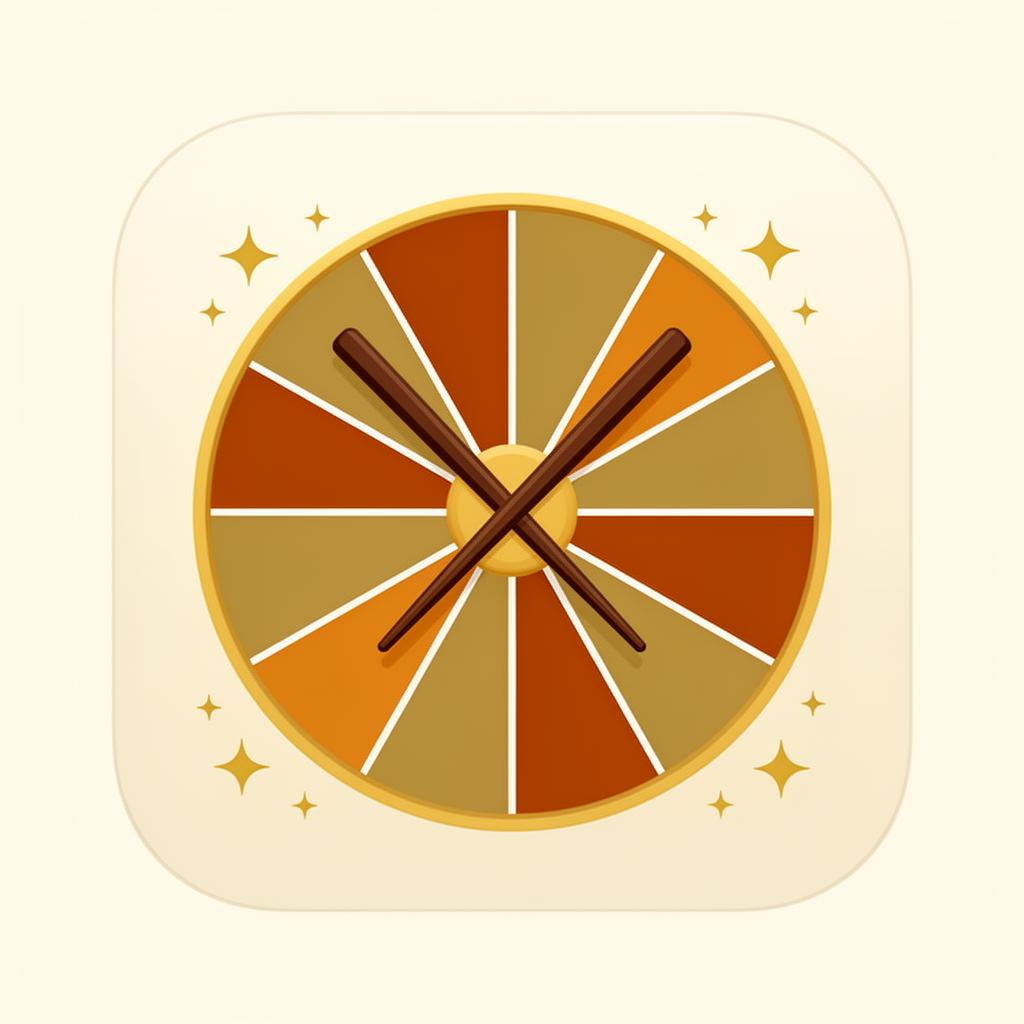
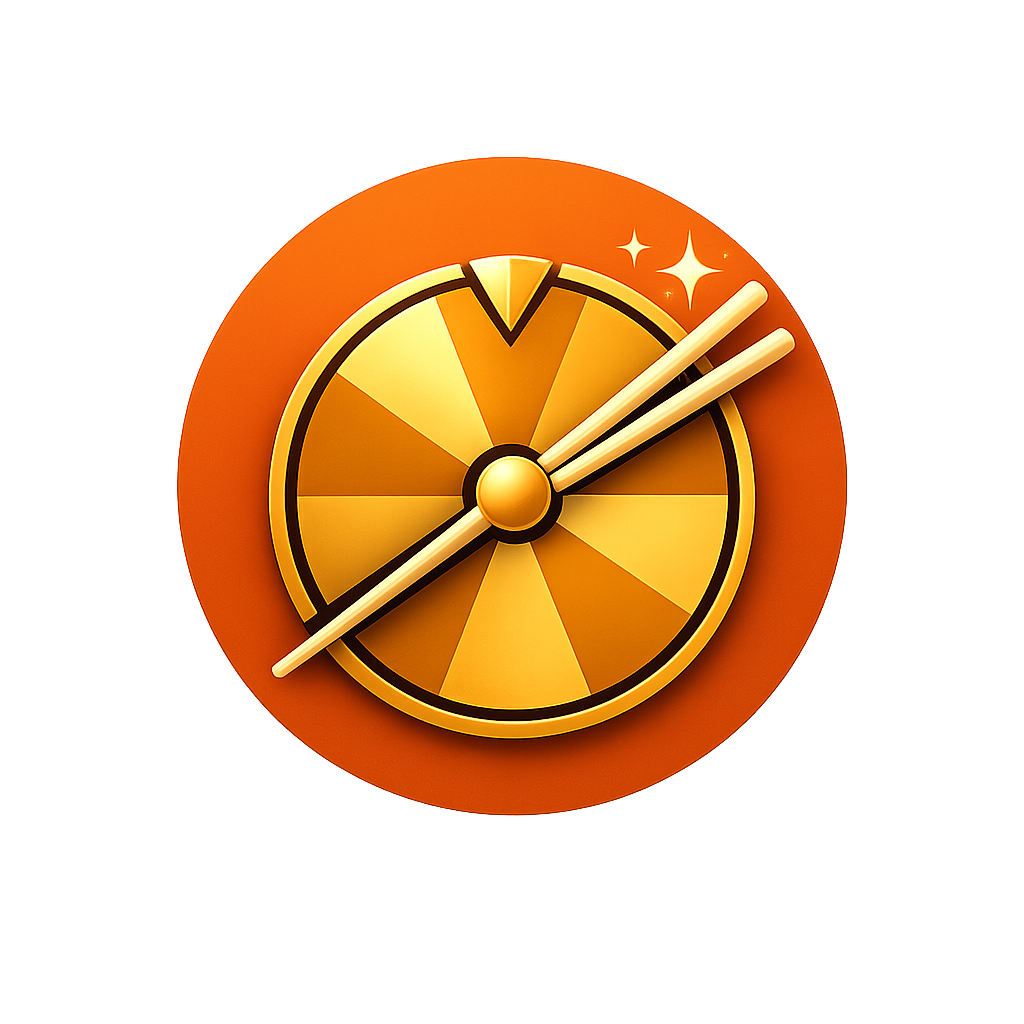
Changes

diff --git a/index.html b/index.html
@@ -27,7 +27,7 @@ Answer a few quick vibe questions, spin the wheel, and receive a personalized su
   <link rel="preconnect" href="https://fonts.gstatic.com" crossorigin>
   <link href="https://fonts.googleapis.com/css2?family=Dancing+Script:wght@400;500;600;700&display=swap" rel="stylesheet">
   
-  <link rel="icon" type="image/png" href="https://storage.googleapis.com/gpt-engineer-file-uploads/qPB3wrEHAxeOjKEkvqo1SErM7Gu1/uploads/1770224053295-C3105E16-49FD-4F54-9188-72A669EDF4B5.png">
+  <link rel="icon" type="image/png" href="/favicon.png">
   <meta property="og:title" content="You Pick">
   <meta name="twitter:title" content="You Pick">
   <meta property="og:description" content="YouPick is the feel-good decision app for when you don’t know what to do next.
